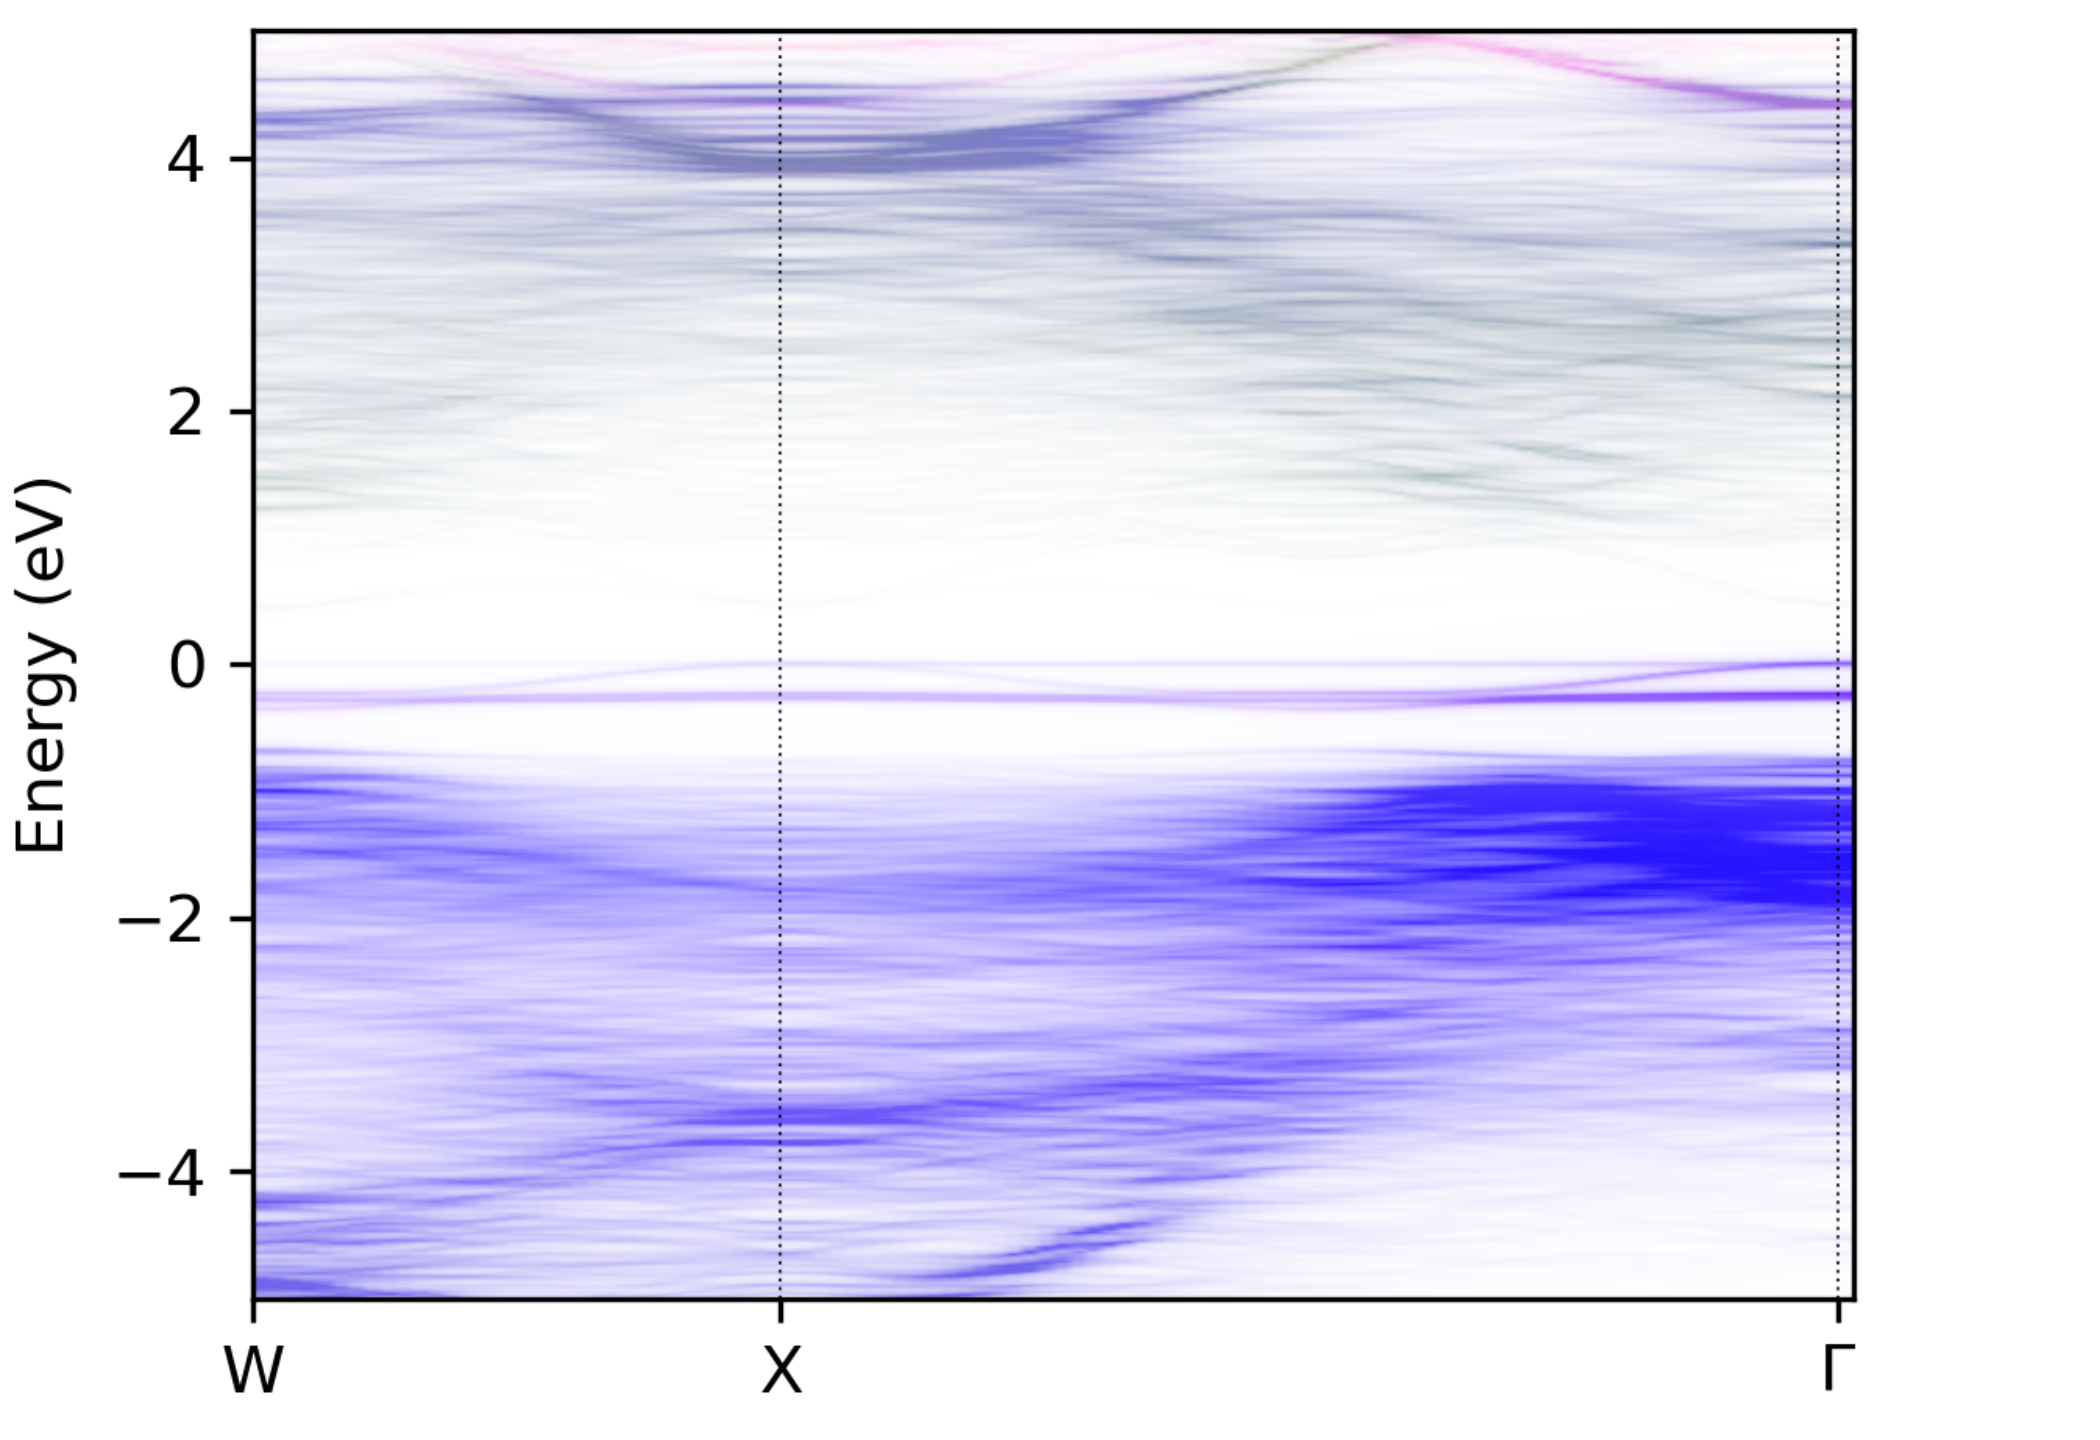
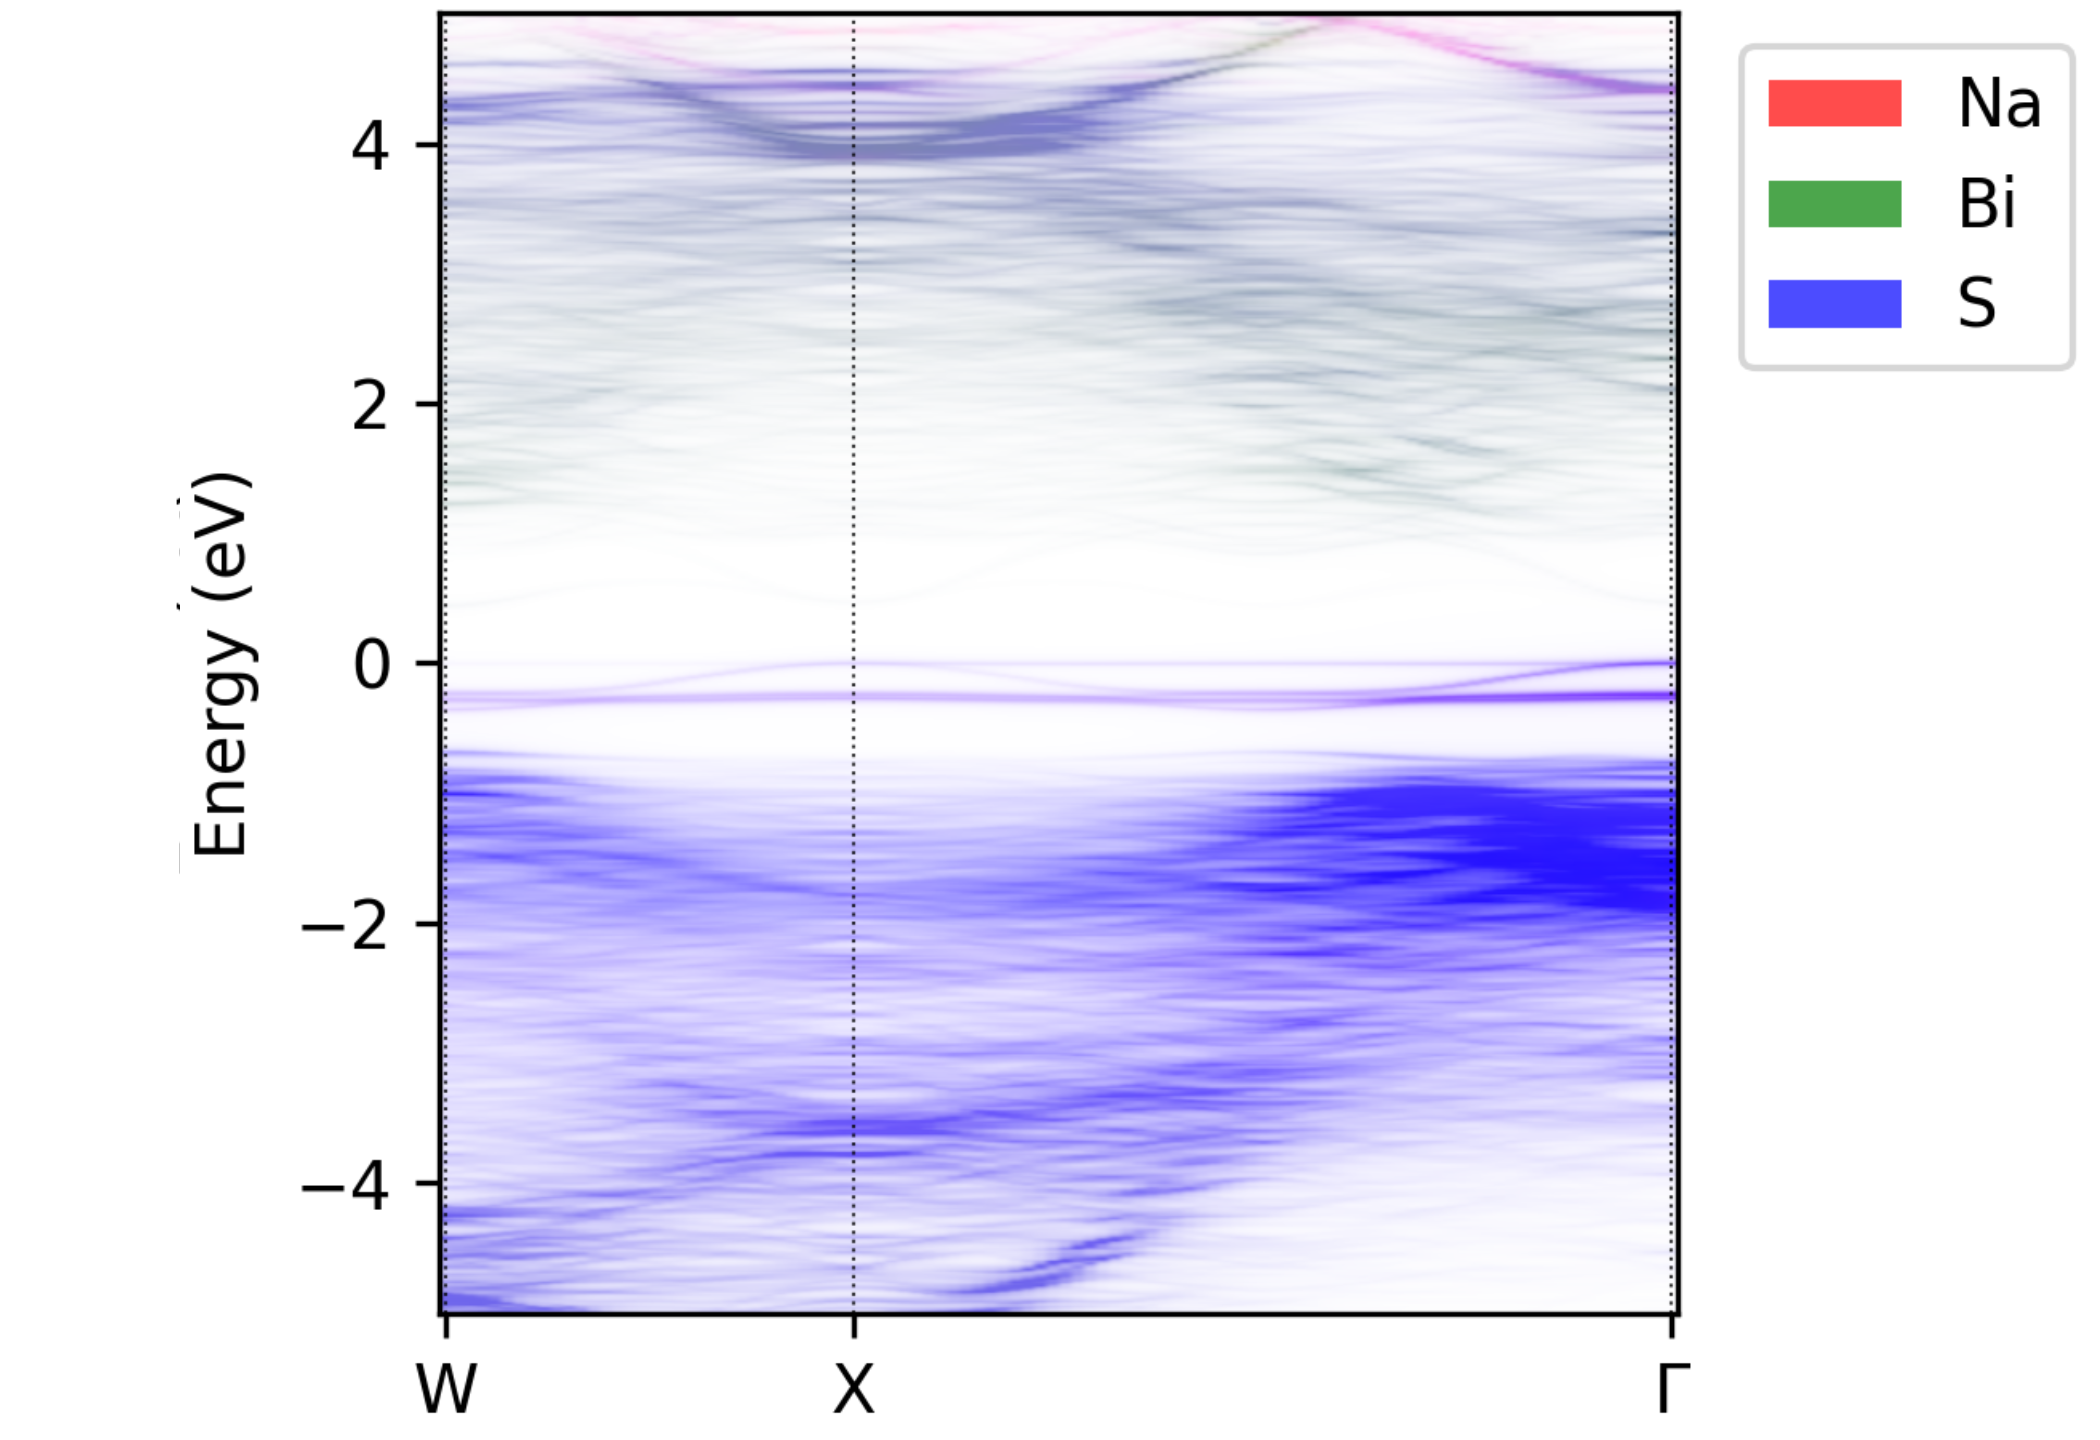
Update `NaBiS2` example with new `--atoms` option, and specific application of `--atoms-idx`

diff --git a/docs/examples/example_nabis2.md b/docs/examples/example_nabis2.md
@@ -17,13 +17,13 @@ SQS supercells can be generated using tools like
 or [ATAT](https://www.brown.edu/Departments/Engineering/Labs/avdw/atat/).
 :::
 
-These results were published in Y. T. Huang & S. R. Kavanagh et al. 2022 [^1], and an early version of 
-`easyunfold` was used for the similar AgBiS$_2$ in Y. Wang & S. R. Kavanagh et al. 2022 [^2], 
-with these plots demonstrating the key 
+These results were published in Y. T. Huang & S. R. Kavanagh et al. 2022 [^1], and an early version of `easyunfold` was 
+used for the similar AgBiS$_2$ in Y. Wang & S. R. Kavanagh et al. 2022 [^2], with these plots demonstrating the key 
 differences in electronic structure and thus photovoltaic performance between these two materials.
 
+## Standard Unfolded Band Structure
 We have previously calculated the `easyunfold.json` file from the calculation using `easyunfold calculate WAVECAR`. 
-Using the default plotting options with `easyunfold unfold plot`, we obtain the following unfolded band structure:
+Using `easyunfold unfold plot --colour-norm 0.5`, we obtain the following unfolded band structure:
 
 ```{figure} ../../examples/NaBiS2/NaBiS2_unfold-plot.png
 :alt: NaBiS2 unfolded band structure
@@ -31,9 +31,10 @@ Using the default plotting options with `easyunfold unfold plot`, we obtain the 
 Unfolded band structure of $\ce{NaBiS2}$
 ```
 
-This is nice, but we can make the plot a little clearer by adjusting some of the parameters like the intensity scaling
-(via `--colour-norm`) and the colour map (via `--cmap`). Below we set `--colour-norm 0.4` to increase the colourmap intensity, 
-and try `BuPu`, `viridis` and `bone_r` from left to right below: 
+### Visualisation Customisation: Colour map and intensity scaling
+The band structure above is nice, but we can make the plot a little clearer by adjusting some of the parameters like 
+the intensity scaling (via `--colour-norm`) and the colour map (via `--cmap`). Below we set `--colour-norm 0.4` to 
+increase the colourmap intensity, and try `BuPu`, `viridis` and `bone_r` from left to right below: 
 
 ```bash
 easyunfold unfold plot --colour-norm 0.4 --cmap "BuPu"
@@ -45,16 +46,18 @@ BuPu             |  viridis        |  bone_r
 :-------------------------:|:-------------------------:|:-------------------------:
 ![](../../examples/NaBiS2/NaBiS2_unfold-plot_BuPu.png)  |  ![](../../examples/NaBiS2/NaBiS2_unfold-plot_viridis.png) |  ![](../../examples/NaBiS2/NaBiS2_unfold-plot_bone_r.png)
 
+## Atom-Projected Unfolded Band Structure
 We can also plot the unfolded band structure with atomic projections, which is useful for understanding the electronic 
 structure of the material. In this case, we are curious as to which atoms are contributing to the band edges, and so 
 the atomic projections will be useful. For this, we need the `PROCAR` output from VASP with the atomic and orbital 
-projection information, and so `LORBIT` should be set to `11` or `12` in the `INCAR` for the original calculation.
+projection information, and so `LORBIT` should be set to `11`, `12`, `13` or `14` in the `INCAR` for the supercell 
+calculation.
 
 When plotting the unfolded band, the `plot-projections` subcommand is used with the `--procar <PROCAR>` and 
-`--atoms-idx <atoms-idx>` options:
+`--atoms` options:
 
 ```bash
-easyunfold unfold plot-projections --atoms-idx="1-20|21-40|41-80" --colour_norm=0.5 --combined
+easyunfold unfold plot-projections --atoms="Na,Bi,S" --colour-norm=0.5 --combined
 ```
 
 ```{figure} ../../examples/NaBiS2/NaBiS2_unfold-plot_proj.png
@@ -64,14 +67,8 @@ easyunfold unfold plot-projections --atoms-idx="1-20|21-40|41-80" --colour_norm=
 Unfolded band structure of NaBiS<sub>2</sub> with atomic contributions.
 ```
 
-From this plot, we can see that Sulfur anions (in blue) dominate the valence band, while Bismuth cations (in green) 
-dominate the conduction band, with minimal contributions from the Sodium cations as expected.
-
-Note that the path of the `PROCAR` is passed along with the group of atoms.
-In this example, the first 20 atoms are `Na`, the second 20 are `Bi` and the last 40 are `S`. Different groups are 
-separated by `|`, and `-` can be used to define the range.
-Note that we use "1-based indexing" for the atoms here, matching the VASP format (i.e. the index of the first atom is 1, 
-not zero as in python).
+From this plot, we can see that sulfur anions dominate the valence band, while bismuth cations dominate the conduction 
+band, with minimal contributions from the sodium cations as expected.
 
 :::{note}
 The atomic projections are not stored in the `easyunfold.json` data file, so the `PROCAR` file should be 
@@ -82,10 +79,11 @@ While the main conclusions of S dominating the valence band and Bi dominating th
 plot above, the high intensity of the S projections in the valence band makes the Bi contributions in the conduction 
 band more faint and less apparent. 
 
-So, we can create separated plots for each atom type to make their individual contributions more clear:
+So, we can create separated plots for each atom type to make their individual contributions more clear, by omitting the 
+`--combined` tag:
 
 ```bash
-easyunfold unfold plot-projections --atoms-idx="Na,Bi,S" --cmap="bone_r" --colour-norm 0.4
+easyunfold unfold plot-projections --atoms="Na,Bi,S" --cmap="bone_r" --colour-norm 0.5
 ```
 
 ```{figure} ../../examples/NaBiS2/NaBiS2_unfold-plot_proj_sep.png
@@ -95,11 +93,9 @@ easyunfold unfold plot-projections --atoms-idx="Na,Bi,S" --cmap="bone_r" --colou
 Unfolded band structure of NaBiS<sub>2</sub> with atomic contributions plotted separately.
 ```
 
-
-An alternative option here is also to just plot only the contributions of Na (`1-20`) and Bi (`21-40`) 
-cations, with no S projections:
+An alternative option here is also to just plot only the contributions of `Na` and `Bi` cations, with no S projections:
 ```bash
-easyunfold unfold plot-projections --atoms="Na,Bi" --colour_norm=0.5  --combined
+easyunfold unfold plot-projections --atoms="Na,Bi" --colour-norm=0.5 --combined
 ```
 
 ```{figure} ../../examples/NaBiS2/NaBiS2_unfold-plot_proj_noS.png
@@ -110,8 +106,36 @@ Unfolded band structure of NaBiS<sub>2</sub> with atomic contributions of only N
 ```
 
 While this plot isn't the most aesthetic, it clearly shows that Bi (green) contributes to both the conduction band and 
-(less so) valence band states, but Na (red) doesn't contribute significantly at near the band edges 
+(less so) valence band states, but Na (red) doesn't contribute significantly at or near the band edges 
 (it's a spectator ion!). 
+
+## Unfolded Band Structure with Specific Atom Selection
+In certain cases, we may want to project the contributions of specific atoms to the unfolded band structure, rather
+than all atoms of a certain element. For example, in this example case of NaBiS$_2$, we see that a flat localised state 
+is forming within the 'bulk' band gap. We can show that this state is contributed by only one or two atoms in the 
+supercell, using the `--atoms-idx` option:
+```bash
+easyunfold unfold plot-projections -unfold plot-projections --atoms-idx="1-55,57-65,67-80|56,66" --colour-norm=0.5
+```
+
+```{figure} ../../examples/NaBiS2/NaBiS2_unfold-plot_proj_sep_atomsidx.png
+:alt: NaBiS2 atom-projected unfolded band structure, specific atoms 
+:width: 400px
+
+Unfolded band structure of NaBiS<sub>2</sub> with the atomic contributions of atoms 56 and 66 plotted separately.
+```
+Here we can see that this in-gap localised state is dominated by only two (sulfur) atoms in the supercell (atoms `56` 
+and `66`), which correspond to Na-rich pockets in NaBiS<sub>2</sub>, as discussed in Huang & Kavanagh et al. [^1].
+
+:::{note}
+The `--atoms-idx` option is used to specify the atoms to be projected onto the unfolded band structure. This takes a 
+string of the form `a-b|c-d|e-f` where `a`, `b`, `c`, `d`, `e` and `f` are integers corresponding to the atom indices 
+in the VASP structure file (i.e. `POSCAR`/`CONTCAR`, corresponding to the `PROCAR` being used to obtain the 
+projections). Different groups are separated by `|`, and `-` can be used to define the range for each projected atom 
+type. A comma-separated list can also be used instead of ranges with hyphens. Note that 1-based indexing is used for 
+atoms, matching the convention in VASP, which is then converted to zero-based indexing internally in python. 
+:::
+
 
 [^1]: [Huang, YT., Kavanagh, S.R., Righetto, M. et al. Strong absorption and ultrafast localisation in NaBiS2 nanocrystals with slow charge-carrier recombination. Nat Commun 13, 4960 (2022)](https://www.nature.com/articles/s41467-022-32669-3) 
 [^2]: [Wang, Y., Kavanagh, S.R., Burgués-Ceballos, I. et al. Cation disorder engineering yields AgBiS2 nanocrystals with enhanced optical absorption for efficient ultrathin solar cells. Nat. Photon. 16, 235–241 (2022).](https://www.nature.com/articles/s41566-021-00950-4)

diff --git a/docs/examples/example_si211_castep.md b/docs/examples/example_si211_castep.md
@@ -111,6 +111,11 @@ Output:
 Spectral function of the unfolded bands.
 ```
 
+:::{tip} 
+See the [NaBiS<sub>2</sub> example](https://smtg-ucl.github.io/easyunfold/examples/example_nabis2.html) for tips on 
+customising and prettifying the unfolded band structure plot.
+:::
+
 
 ## Band structures of the primitive cell and supercell
 
